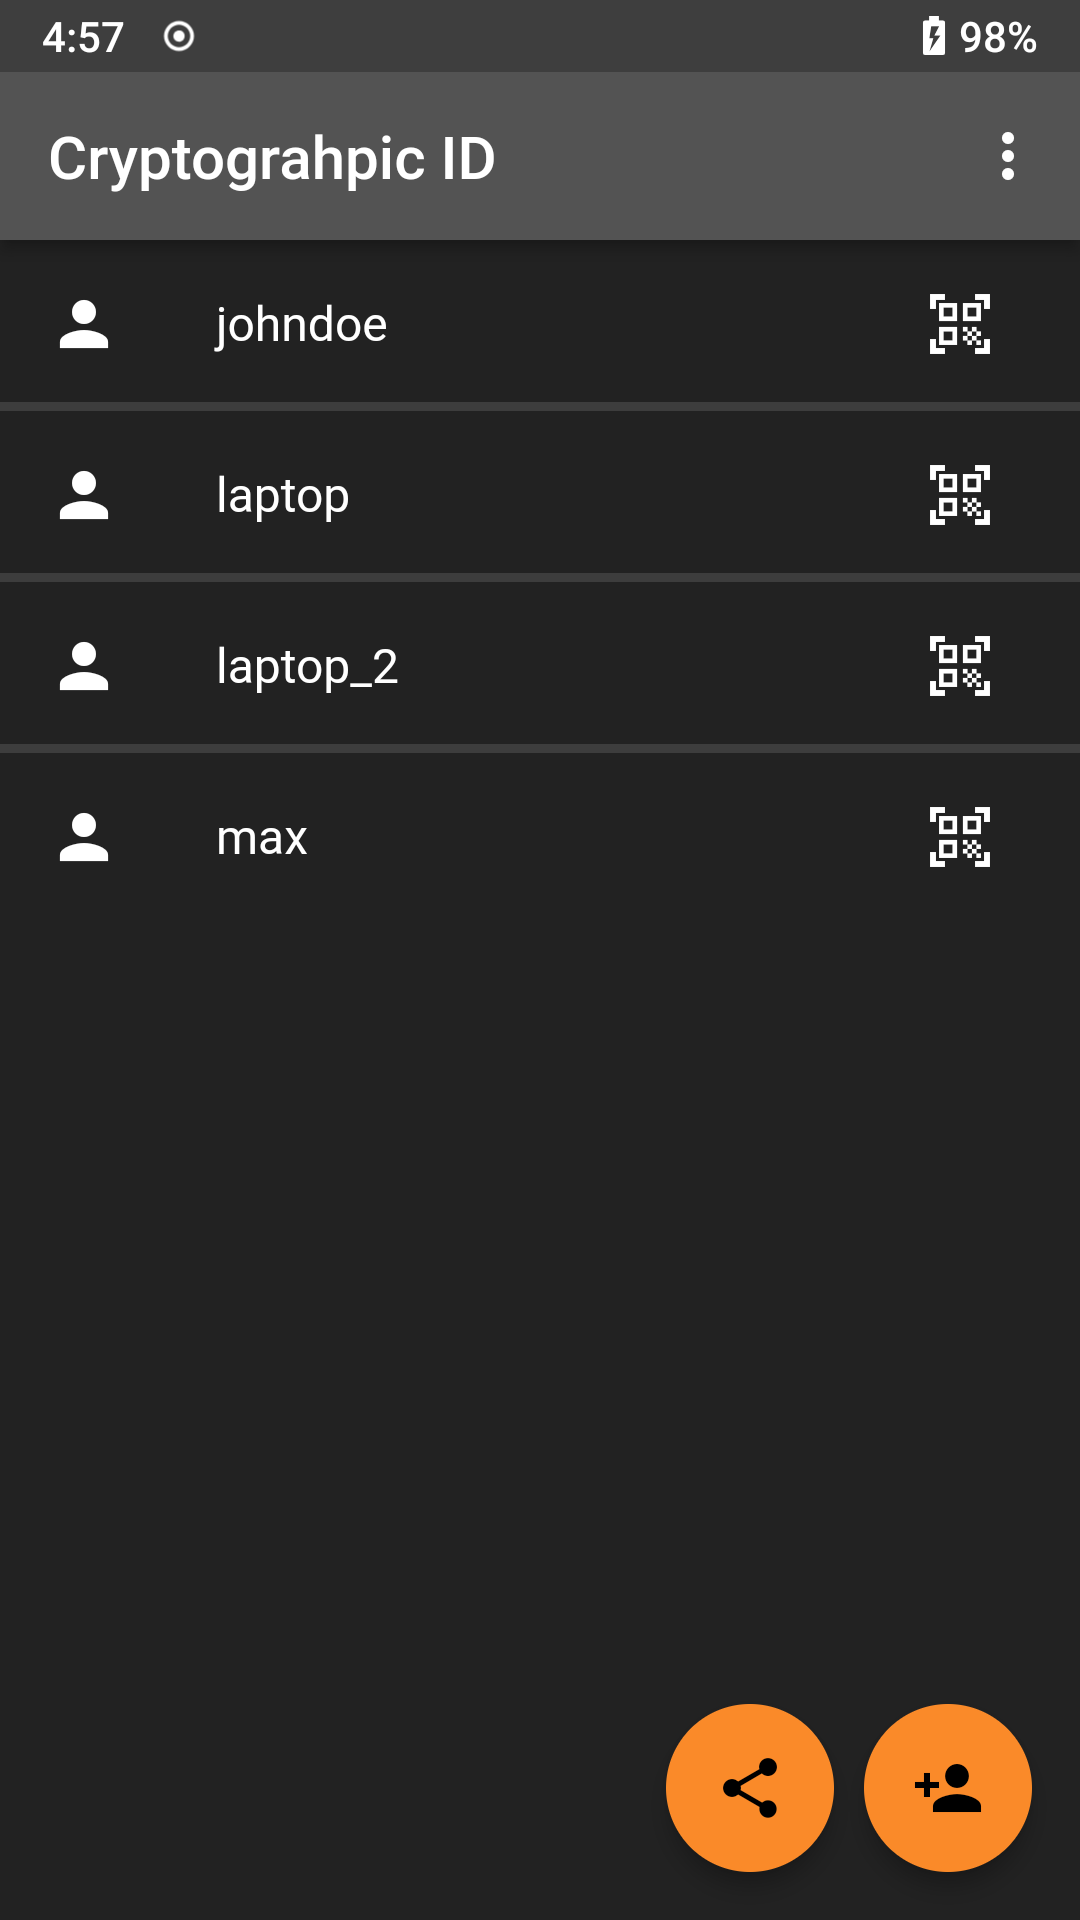
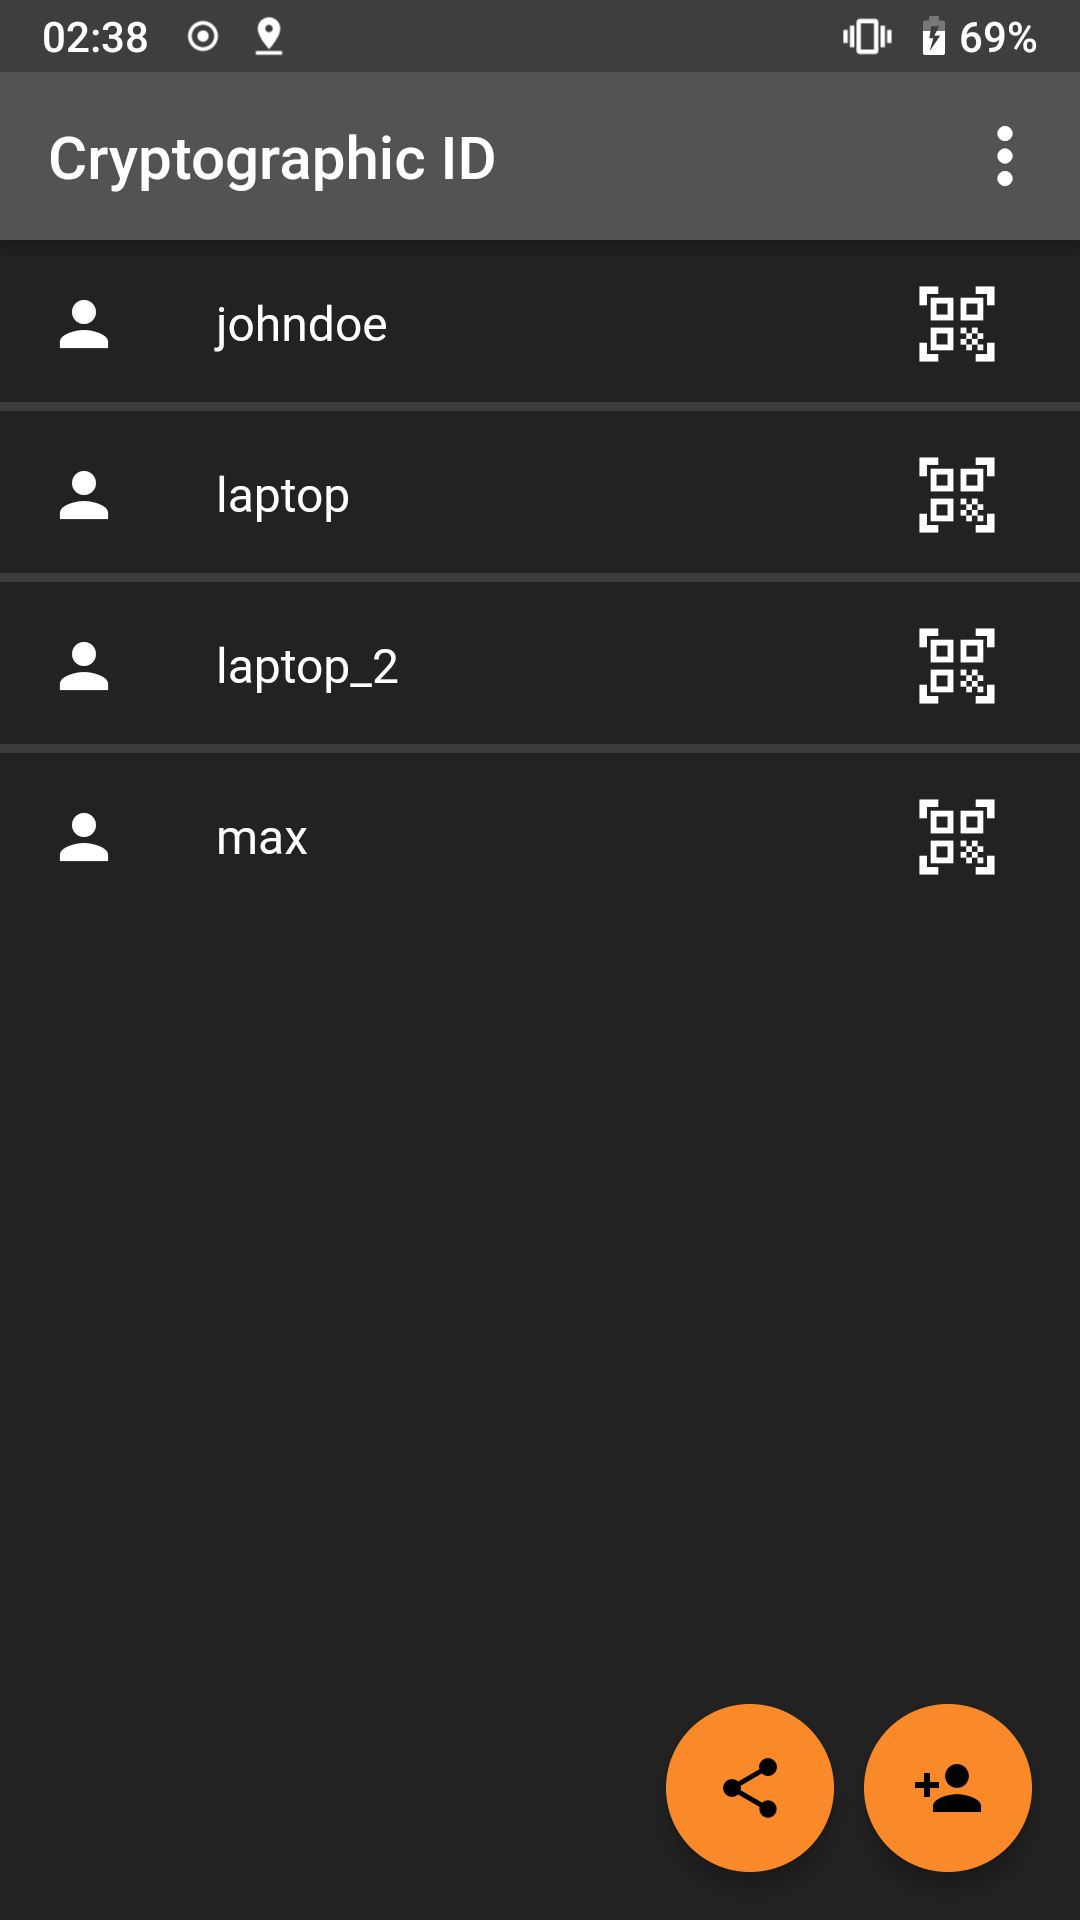
Update screenshots and add them to the Readme

diff --git a/README.md b/README.md
@@ -68,3 +68,14 @@ flutter build apk
 ## Contributing
 
 Please use `flutter analyze` before opening a pull request.
+
+## Screenshots
+
+<img src="fastlane/metadata/android/en-US/images/phoneScreenshots/1.png" alt="Overview dark" height="466">
+<img src="fastlane/metadata/android/en-US/images/phoneScreenshots/2.png" alt="Show id" height="466">
+<img src="fastlane/metadata/android/en-US/images/phoneScreenshots/3.png" alt="Signature recent" height="466">
+<img src="fastlane/metadata/android/en-US/images/phoneScreenshots/4.png" alt="Signature past" height="466">
+<img src="fastlane/metadata/android/en-US/images/phoneScreenshots/5.png" alt="Signature invalid" height="466">
+<img src="fastlane/metadata/android/en-US/images/phoneScreenshots/6.png" alt="Signature unkown" height="466">
+<img src="fastlane/metadata/android/en-US/images/phoneScreenshots/7.png" alt="Sign id" height="466">
+<img src="fastlane/metadata/android/en-US/images/phoneScreenshots/8.png" alt="Overview light" height="466">
